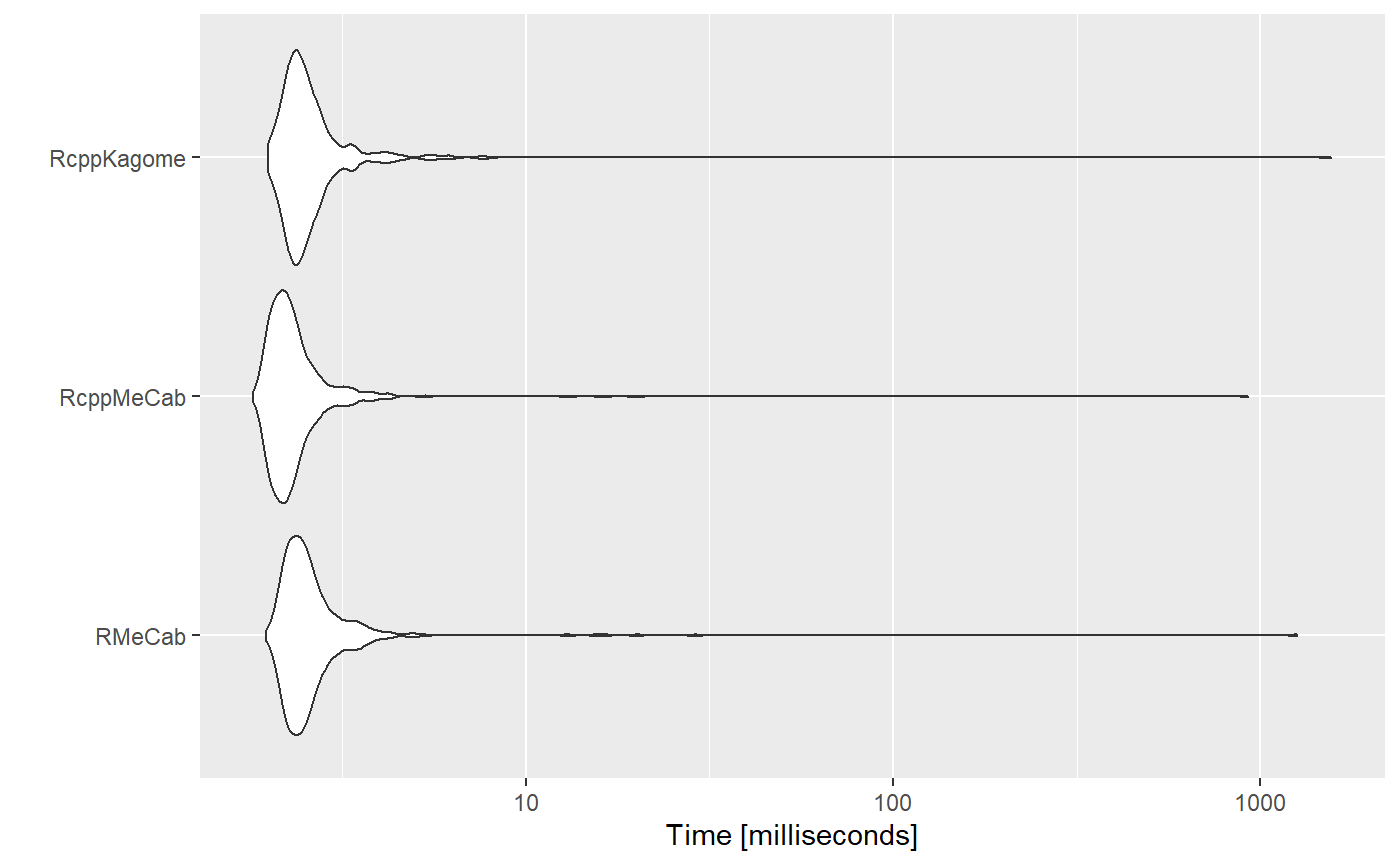
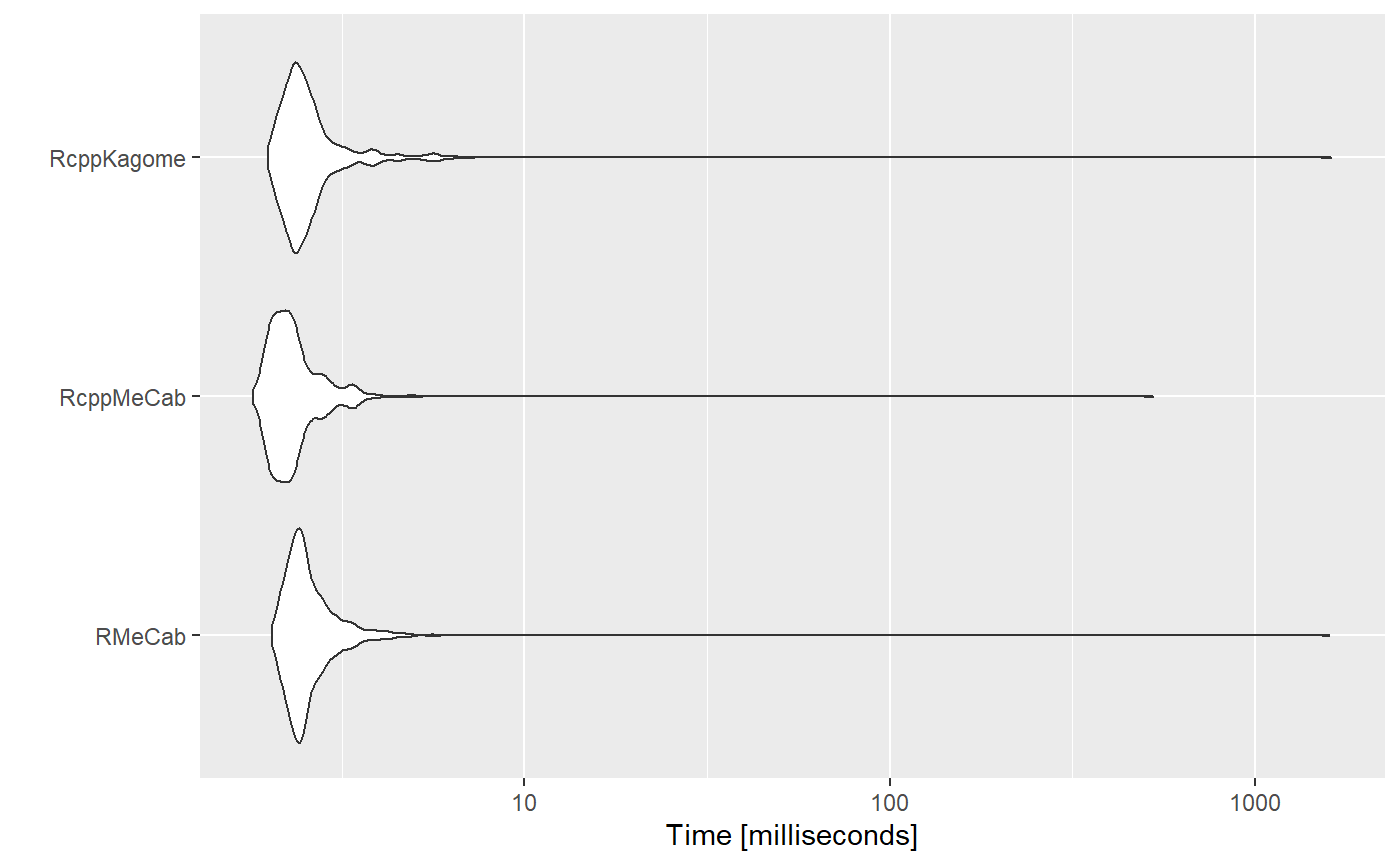
Update .travis.yml (#2)
* Update .travis.yml

* benchmark

diff --git a/docs/articles/benchmark.html b/docs/articles/benchmark.html
@@ -108,9 +108,9 @@
 <span id="cb1-9"><a href="#cb1-9"></a>)</span>
 <span id="cb1-10"><a href="#cb1-10"></a><span class="kw"><a href="https://rdrr.io/r/base/summary.html">summary</a></span>(tm)</span>
 <span id="cb1-11"><a href="#cb1-11"></a><span class="co">#&gt;         expr    min      lq     mean  median      uq       max neval</span></span>
-<span id="cb1-12"><a href="#cb1-12"></a><span class="co">#&gt; 1     RMeCab 1.9635 2.28600 5.247780 2.46515 2.72515 1253.9942   500</span></span>
-<span id="cb1-13"><a href="#cb1-13"></a><span class="co">#&gt; 2  RcppMeCab 1.8146 2.08380 4.265507 2.23435 2.43655  922.3743   500</span></span>
-<span id="cb1-14"><a href="#cb1-14"></a><span class="co">#&gt; 3 RcppKagome 1.9839 2.28455 5.725297 2.44520 2.68325 1556.6871   500</span></span></code></pre></div>
+<span id="cb1-12"><a href="#cb1-12"></a><span class="co">#&gt; 1     RMeCab 2.0430 2.32435 5.770875 2.46570 2.73435 1588.5744   500</span></span>
+<span id="cb1-13"><a href="#cb1-13"></a><span class="co">#&gt; 2  RcppMeCab 1.8153 2.07665 3.401048 2.24985 2.45650  524.3863   500</span></span>
+<span id="cb1-14"><a href="#cb1-14"></a><span class="co">#&gt; 3 RcppKagome 1.9866 2.28515 5.846504 2.43785 2.66980 1613.1002   500</span></span></code></pre></div>
 <div class="sourceCode" id="cb2"><pre class="sourceCode r"><code class="sourceCode r"><span id="cb2-1"><a href="#cb2-1"></a>ggplot2<span class="op">::</span><span class="kw"><a href="https://ggplot2.tidyverse.org/reference/autoplot.html">autoplot</a></span>(tm)</span>
 <span id="cb2-2"><a href="#cb2-2"></a><span class="co">#&gt; Coordinate system already present. Adding new coordinate system, which will replace the existing one.</span></span></code></pre></div>
 <p><img src="benchmark_files/figure-html/unnamed-chunk-2-1.png" width="700"></p>
@@ -184,64 +184,64 @@
 <span id="cb3-68"><a href="#cb3-68"></a><span class="co">#&gt;    withr            2.2.0     2020-04-20 [2]</span></span>
 <span id="cb3-69"><a href="#cb3-69"></a><span class="co">#&gt;    xfun             0.16      2020-07-24 [2]</span></span>
 <span id="cb3-70"><a href="#cb3-70"></a><span class="co">#&gt;    yaml             2.2.1     2020-02-01 [2]</span></span>
-<span id="cb3-71"><a href="#cb3-71"></a><span class="co">#&gt;  source                                </span></span>
-<span id="cb3-72"><a href="#cb3-72"></a><span class="co">#&gt;  CRAN (R 4.0.2)                        </span></span>
-<span id="cb3-73"><a href="#cb3-73"></a><span class="co">#&gt;  CRAN (R 4.0.0)                        </span></span>
-<span id="cb3-74"><a href="#cb3-74"></a><span class="co">#&gt;  CRAN (R 4.0.2)                        </span></span>
-<span id="cb3-75"><a href="#cb3-75"></a><span class="co">#&gt;  CRAN (R 4.0.2)                        </span></span>
-<span id="cb3-76"><a href="#cb3-76"></a><span class="co">#&gt;  CRAN (R 4.0.2)                        </span></span>
-<span id="cb3-77"><a href="#cb3-77"></a><span class="co">#&gt;  CRAN (R 4.0.2)                        </span></span>
-<span id="cb3-78"><a href="#cb3-78"></a><span class="co">#&gt;  CRAN (R 4.0.2)                        </span></span>
-<span id="cb3-79"><a href="#cb3-79"></a><span class="co">#&gt;  CRAN (R 4.0.2)                        </span></span>
-<span id="cb3-80"><a href="#cb3-80"></a><span class="co">#&gt;  CRAN (R 4.0.2)                        </span></span>
-<span id="cb3-81"><a href="#cb3-81"></a><span class="co">#&gt;  CRAN (R 4.0.2)                        </span></span>
-<span id="cb3-82"><a href="#cb3-82"></a><span class="co">#&gt;  CRAN (R 4.0.2)                        </span></span>
-<span id="cb3-83"><a href="#cb3-83"></a><span class="co">#&gt;  CRAN (R 4.0.2)                        </span></span>
-<span id="cb3-84"><a href="#cb3-84"></a><span class="co">#&gt;  CRAN (R 4.0.2)                        </span></span>
-<span id="cb3-85"><a href="#cb3-85"></a><span class="co">#&gt;  CRAN (R 4.0.2)                        </span></span>
-<span id="cb3-86"><a href="#cb3-86"></a><span class="co">#&gt;  CRAN (R 4.0.2)                        </span></span>
-<span id="cb3-87"><a href="#cb3-87"></a><span class="co">#&gt;  CRAN (R 4.0.2)                        </span></span>
-<span id="cb3-88"><a href="#cb3-88"></a><span class="co">#&gt;  CRAN (R 4.0.2)                        </span></span>
-<span id="cb3-89"><a href="#cb3-89"></a><span class="co">#&gt;  CRAN (R 4.0.2)                        </span></span>
-<span id="cb3-90"><a href="#cb3-90"></a><span class="co">#&gt;  CRAN (R 4.0.2)                        </span></span>
-<span id="cb3-91"><a href="#cb3-91"></a><span class="co">#&gt;  CRAN (R 4.0.2)                        </span></span>
-<span id="cb3-92"><a href="#cb3-92"></a><span class="co">#&gt;  CRAN (R 4.0.2)                        </span></span>
-<span id="cb3-93"><a href="#cb3-93"></a><span class="co">#&gt;  CRAN (R 4.0.2)                        </span></span>
-<span id="cb3-94"><a href="#cb3-94"></a><span class="co">#&gt;  CRAN (R 4.0.2)                        </span></span>
-<span id="cb3-95"><a href="#cb3-95"></a><span class="co">#&gt;  CRAN (R 4.0.2)                        </span></span>
-<span id="cb3-96"><a href="#cb3-96"></a><span class="co">#&gt;  CRAN (R 4.0.2)                        </span></span>
-<span id="cb3-97"><a href="#cb3-97"></a><span class="co">#&gt;  CRAN (R 4.0.2)                        </span></span>
-<span id="cb3-98"><a href="#cb3-98"></a><span class="co">#&gt;  CRAN (R 4.0.2)                        </span></span>
-<span id="cb3-99"><a href="#cb3-99"></a><span class="co">#&gt;  CRAN (R 4.0.2)                        </span></span>
-<span id="cb3-100"><a href="#cb3-100"></a><span class="co">#&gt;  Github (r-lib/pkgdown@cdd8340)        </span></span>
-<span id="cb3-101"><a href="#cb3-101"></a><span class="co">#&gt;  CRAN (R 4.0.2)                        </span></span>
-<span id="cb3-102"><a href="#cb3-102"></a><span class="co">#&gt;  CRAN (R 4.0.2)                        </span></span>
-<span id="cb3-103"><a href="#cb3-103"></a><span class="co">#&gt;  CRAN (R 4.0.2)                        </span></span>
-<span id="cb3-104"><a href="#cb3-104"></a><span class="co">#&gt;  CRAN (R 4.0.2)                        </span></span>
-<span id="cb3-105"><a href="#cb3-105"></a><span class="co">#&gt;  CRAN (R 4.0.2)                        </span></span>
-<span id="cb3-106"><a href="#cb3-106"></a><span class="co">#&gt;  CRAN (R 4.0.2)                        </span></span>
-<span id="cb3-107"><a href="#cb3-107"></a><span class="co">#&gt;  CRAN (R 4.0.2)                        </span></span>
-<span id="cb3-108"><a href="#cb3-108"></a><span class="co">#&gt;  local                                 </span></span>
-<span id="cb3-109"><a href="#cb3-109"></a><span class="co">#&gt;  Github (paithiov909/RcppMeCab@b777fdf)</span></span>
-<span id="cb3-110"><a href="#cb3-110"></a><span class="co">#&gt;  CRAN (R 4.0.2)                        </span></span>
-<span id="cb3-111"><a href="#cb3-111"></a><span class="co">#&gt;  CRAN (R 4.0.2)                        </span></span>
-<span id="cb3-112"><a href="#cb3-112"></a><span class="co">#&gt;  CRAN (R 4.0.2)                        </span></span>
-<span id="cb3-113"><a href="#cb3-113"></a><span class="co">#&gt;  local                                 </span></span>
-<span id="cb3-114"><a href="#cb3-114"></a><span class="co">#&gt;  CRAN (R 4.0.2)                        </span></span>
-<span id="cb3-115"><a href="#cb3-115"></a><span class="co">#&gt;  CRAN (R 4.0.2)                        </span></span>
-<span id="cb3-116"><a href="#cb3-116"></a><span class="co">#&gt;  CRAN (R 4.0.2)                        </span></span>
-<span id="cb3-117"><a href="#cb3-117"></a><span class="co">#&gt;  CRAN (R 4.0.2)                        </span></span>
-<span id="cb3-118"><a href="#cb3-118"></a><span class="co">#&gt;  CRAN (R 4.0.0)                        </span></span>
-<span id="cb3-119"><a href="#cb3-119"></a><span class="co">#&gt;  CRAN (R 4.0.2)                        </span></span>
-<span id="cb3-120"><a href="#cb3-120"></a><span class="co">#&gt;  CRAN (R 4.0.2)                        </span></span>
-<span id="cb3-121"><a href="#cb3-121"></a><span class="co">#&gt;  CRAN (R 4.0.2)                        </span></span>
-<span id="cb3-122"><a href="#cb3-122"></a><span class="co">#&gt;  CRAN (R 4.0.2)                        </span></span>
-<span id="cb3-123"><a href="#cb3-123"></a><span class="co">#&gt;  CRAN (R 4.0.2)                        </span></span>
-<span id="cb3-124"><a href="#cb3-124"></a><span class="co">#&gt;  CRAN (R 4.0.2)                        </span></span>
-<span id="cb3-125"><a href="#cb3-125"></a><span class="co">#&gt;  CRAN (R 4.0.2)                        </span></span>
-<span id="cb3-126"><a href="#cb3-126"></a><span class="co">#&gt;  CRAN (R 4.0.0)                        </span></span>
+<span id="cb3-71"><a href="#cb3-71"></a><span class="co">#&gt;  source                                 </span></span>
+<span id="cb3-72"><a href="#cb3-72"></a><span class="co">#&gt;  CRAN (R 4.0.2)                         </span></span>
+<span id="cb3-73"><a href="#cb3-73"></a><span class="co">#&gt;  CRAN (R 4.0.0)                         </span></span>
+<span id="cb3-74"><a href="#cb3-74"></a><span class="co">#&gt;  CRAN (R 4.0.2)                         </span></span>
+<span id="cb3-75"><a href="#cb3-75"></a><span class="co">#&gt;  CRAN (R 4.0.2)                         </span></span>
+<span id="cb3-76"><a href="#cb3-76"></a><span class="co">#&gt;  CRAN (R 4.0.2)                         </span></span>
+<span id="cb3-77"><a href="#cb3-77"></a><span class="co">#&gt;  CRAN (R 4.0.2)                         </span></span>
+<span id="cb3-78"><a href="#cb3-78"></a><span class="co">#&gt;  CRAN (R 4.0.2)                         </span></span>
+<span id="cb3-79"><a href="#cb3-79"></a><span class="co">#&gt;  CRAN (R 4.0.2)                         </span></span>
+<span id="cb3-80"><a href="#cb3-80"></a><span class="co">#&gt;  CRAN (R 4.0.2)                         </span></span>
+<span id="cb3-81"><a href="#cb3-81"></a><span class="co">#&gt;  CRAN (R 4.0.2)                         </span></span>
+<span id="cb3-82"><a href="#cb3-82"></a><span class="co">#&gt;  CRAN (R 4.0.2)                         </span></span>
+<span id="cb3-83"><a href="#cb3-83"></a><span class="co">#&gt;  CRAN (R 4.0.2)                         </span></span>
+<span id="cb3-84"><a href="#cb3-84"></a><span class="co">#&gt;  CRAN (R 4.0.2)                         </span></span>
+<span id="cb3-85"><a href="#cb3-85"></a><span class="co">#&gt;  CRAN (R 4.0.2)                         </span></span>
+<span id="cb3-86"><a href="#cb3-86"></a><span class="co">#&gt;  CRAN (R 4.0.2)                         </span></span>
+<span id="cb3-87"><a href="#cb3-87"></a><span class="co">#&gt;  CRAN (R 4.0.2)                         </span></span>
+<span id="cb3-88"><a href="#cb3-88"></a><span class="co">#&gt;  CRAN (R 4.0.2)                         </span></span>
+<span id="cb3-89"><a href="#cb3-89"></a><span class="co">#&gt;  CRAN (R 4.0.2)                         </span></span>
+<span id="cb3-90"><a href="#cb3-90"></a><span class="co">#&gt;  CRAN (R 4.0.2)                         </span></span>
+<span id="cb3-91"><a href="#cb3-91"></a><span class="co">#&gt;  CRAN (R 4.0.2)                         </span></span>
+<span id="cb3-92"><a href="#cb3-92"></a><span class="co">#&gt;  CRAN (R 4.0.2)                         </span></span>
+<span id="cb3-93"><a href="#cb3-93"></a><span class="co">#&gt;  CRAN (R 4.0.2)                         </span></span>
+<span id="cb3-94"><a href="#cb3-94"></a><span class="co">#&gt;  CRAN (R 4.0.2)                         </span></span>
+<span id="cb3-95"><a href="#cb3-95"></a><span class="co">#&gt;  CRAN (R 4.0.2)                         </span></span>
+<span id="cb3-96"><a href="#cb3-96"></a><span class="co">#&gt;  CRAN (R 4.0.2)                         </span></span>
+<span id="cb3-97"><a href="#cb3-97"></a><span class="co">#&gt;  CRAN (R 4.0.2)                         </span></span>
+<span id="cb3-98"><a href="#cb3-98"></a><span class="co">#&gt;  CRAN (R 4.0.2)                         </span></span>
+<span id="cb3-99"><a href="#cb3-99"></a><span class="co">#&gt;  CRAN (R 4.0.2)                         </span></span>
+<span id="cb3-100"><a href="#cb3-100"></a><span class="co">#&gt;  Github (r-lib/pkgdown@cdd8340)         </span></span>
+<span id="cb3-101"><a href="#cb3-101"></a><span class="co">#&gt;  CRAN (R 4.0.2)                         </span></span>
+<span id="cb3-102"><a href="#cb3-102"></a><span class="co">#&gt;  CRAN (R 4.0.2)                         </span></span>
+<span id="cb3-103"><a href="#cb3-103"></a><span class="co">#&gt;  CRAN (R 4.0.2)                         </span></span>
+<span id="cb3-104"><a href="#cb3-104"></a><span class="co">#&gt;  CRAN (R 4.0.2)                         </span></span>
+<span id="cb3-105"><a href="#cb3-105"></a><span class="co">#&gt;  CRAN (R 4.0.2)                         </span></span>
+<span id="cb3-106"><a href="#cb3-106"></a><span class="co">#&gt;  CRAN (R 4.0.2)                         </span></span>
+<span id="cb3-107"><a href="#cb3-107"></a><span class="co">#&gt;  CRAN (R 4.0.2)                         </span></span>
+<span id="cb3-108"><a href="#cb3-108"></a><span class="co">#&gt;  Github (paithiov909/RcppKagome@dc32db1)</span></span>
+<span id="cb3-109"><a href="#cb3-109"></a><span class="co">#&gt;  Github (paithiov909/RcppMeCab@b777fdf) </span></span>
+<span id="cb3-110"><a href="#cb3-110"></a><span class="co">#&gt;  CRAN (R 4.0.2)                         </span></span>
+<span id="cb3-111"><a href="#cb3-111"></a><span class="co">#&gt;  CRAN (R 4.0.2)                         </span></span>
+<span id="cb3-112"><a href="#cb3-112"></a><span class="co">#&gt;  CRAN (R 4.0.2)                         </span></span>
+<span id="cb3-113"><a href="#cb3-113"></a><span class="co">#&gt;  local                                  </span></span>
+<span id="cb3-114"><a href="#cb3-114"></a><span class="co">#&gt;  CRAN (R 4.0.2)                         </span></span>
+<span id="cb3-115"><a href="#cb3-115"></a><span class="co">#&gt;  CRAN (R 4.0.2)                         </span></span>
+<span id="cb3-116"><a href="#cb3-116"></a><span class="co">#&gt;  CRAN (R 4.0.2)                         </span></span>
+<span id="cb3-117"><a href="#cb3-117"></a><span class="co">#&gt;  CRAN (R 4.0.2)                         </span></span>
+<span id="cb3-118"><a href="#cb3-118"></a><span class="co">#&gt;  CRAN (R 4.0.0)                         </span></span>
+<span id="cb3-119"><a href="#cb3-119"></a><span class="co">#&gt;  CRAN (R 4.0.2)                         </span></span>
+<span id="cb3-120"><a href="#cb3-120"></a><span class="co">#&gt;  CRAN (R 4.0.2)                         </span></span>
+<span id="cb3-121"><a href="#cb3-121"></a><span class="co">#&gt;  CRAN (R 4.0.2)                         </span></span>
+<span id="cb3-122"><a href="#cb3-122"></a><span class="co">#&gt;  CRAN (R 4.0.2)                         </span></span>
+<span id="cb3-123"><a href="#cb3-123"></a><span class="co">#&gt;  CRAN (R 4.0.2)                         </span></span>
+<span id="cb3-124"><a href="#cb3-124"></a><span class="co">#&gt;  CRAN (R 4.0.2)                         </span></span>
+<span id="cb3-125"><a href="#cb3-125"></a><span class="co">#&gt;  CRAN (R 4.0.2)                         </span></span>
+<span id="cb3-126"><a href="#cb3-126"></a><span class="co">#&gt;  CRAN (R 4.0.0)                         </span></span>
 <span id="cb3-127"><a href="#cb3-127"></a><span class="co">#&gt; </span></span>
-<span id="cb3-128"><a href="#cb3-128"></a><span class="co">#&gt; [1] C:/Users/user/AppData/Local/Temp/RtmpCCJZ0a/temp_libpath20d824cf4648</span></span>
+<span id="cb3-128"><a href="#cb3-128"></a><span class="co">#&gt; [1] C:/Users/user/AppData/Local/Temp/RtmpolcPhL/temp_libpath1f0869734579</span></span>
 <span id="cb3-129"><a href="#cb3-129"></a><span class="co">#&gt; [2] C:/Users/user/Documents/R/win-library/4.0</span></span>
 <span id="cb3-130"><a href="#cb3-130"></a><span class="co">#&gt; [3] C:/Program Files/R/R-4.0.2/library</span></span>
 <span id="cb3-131"><a href="#cb3-131"></a><span class="co">#&gt; </span></span>
